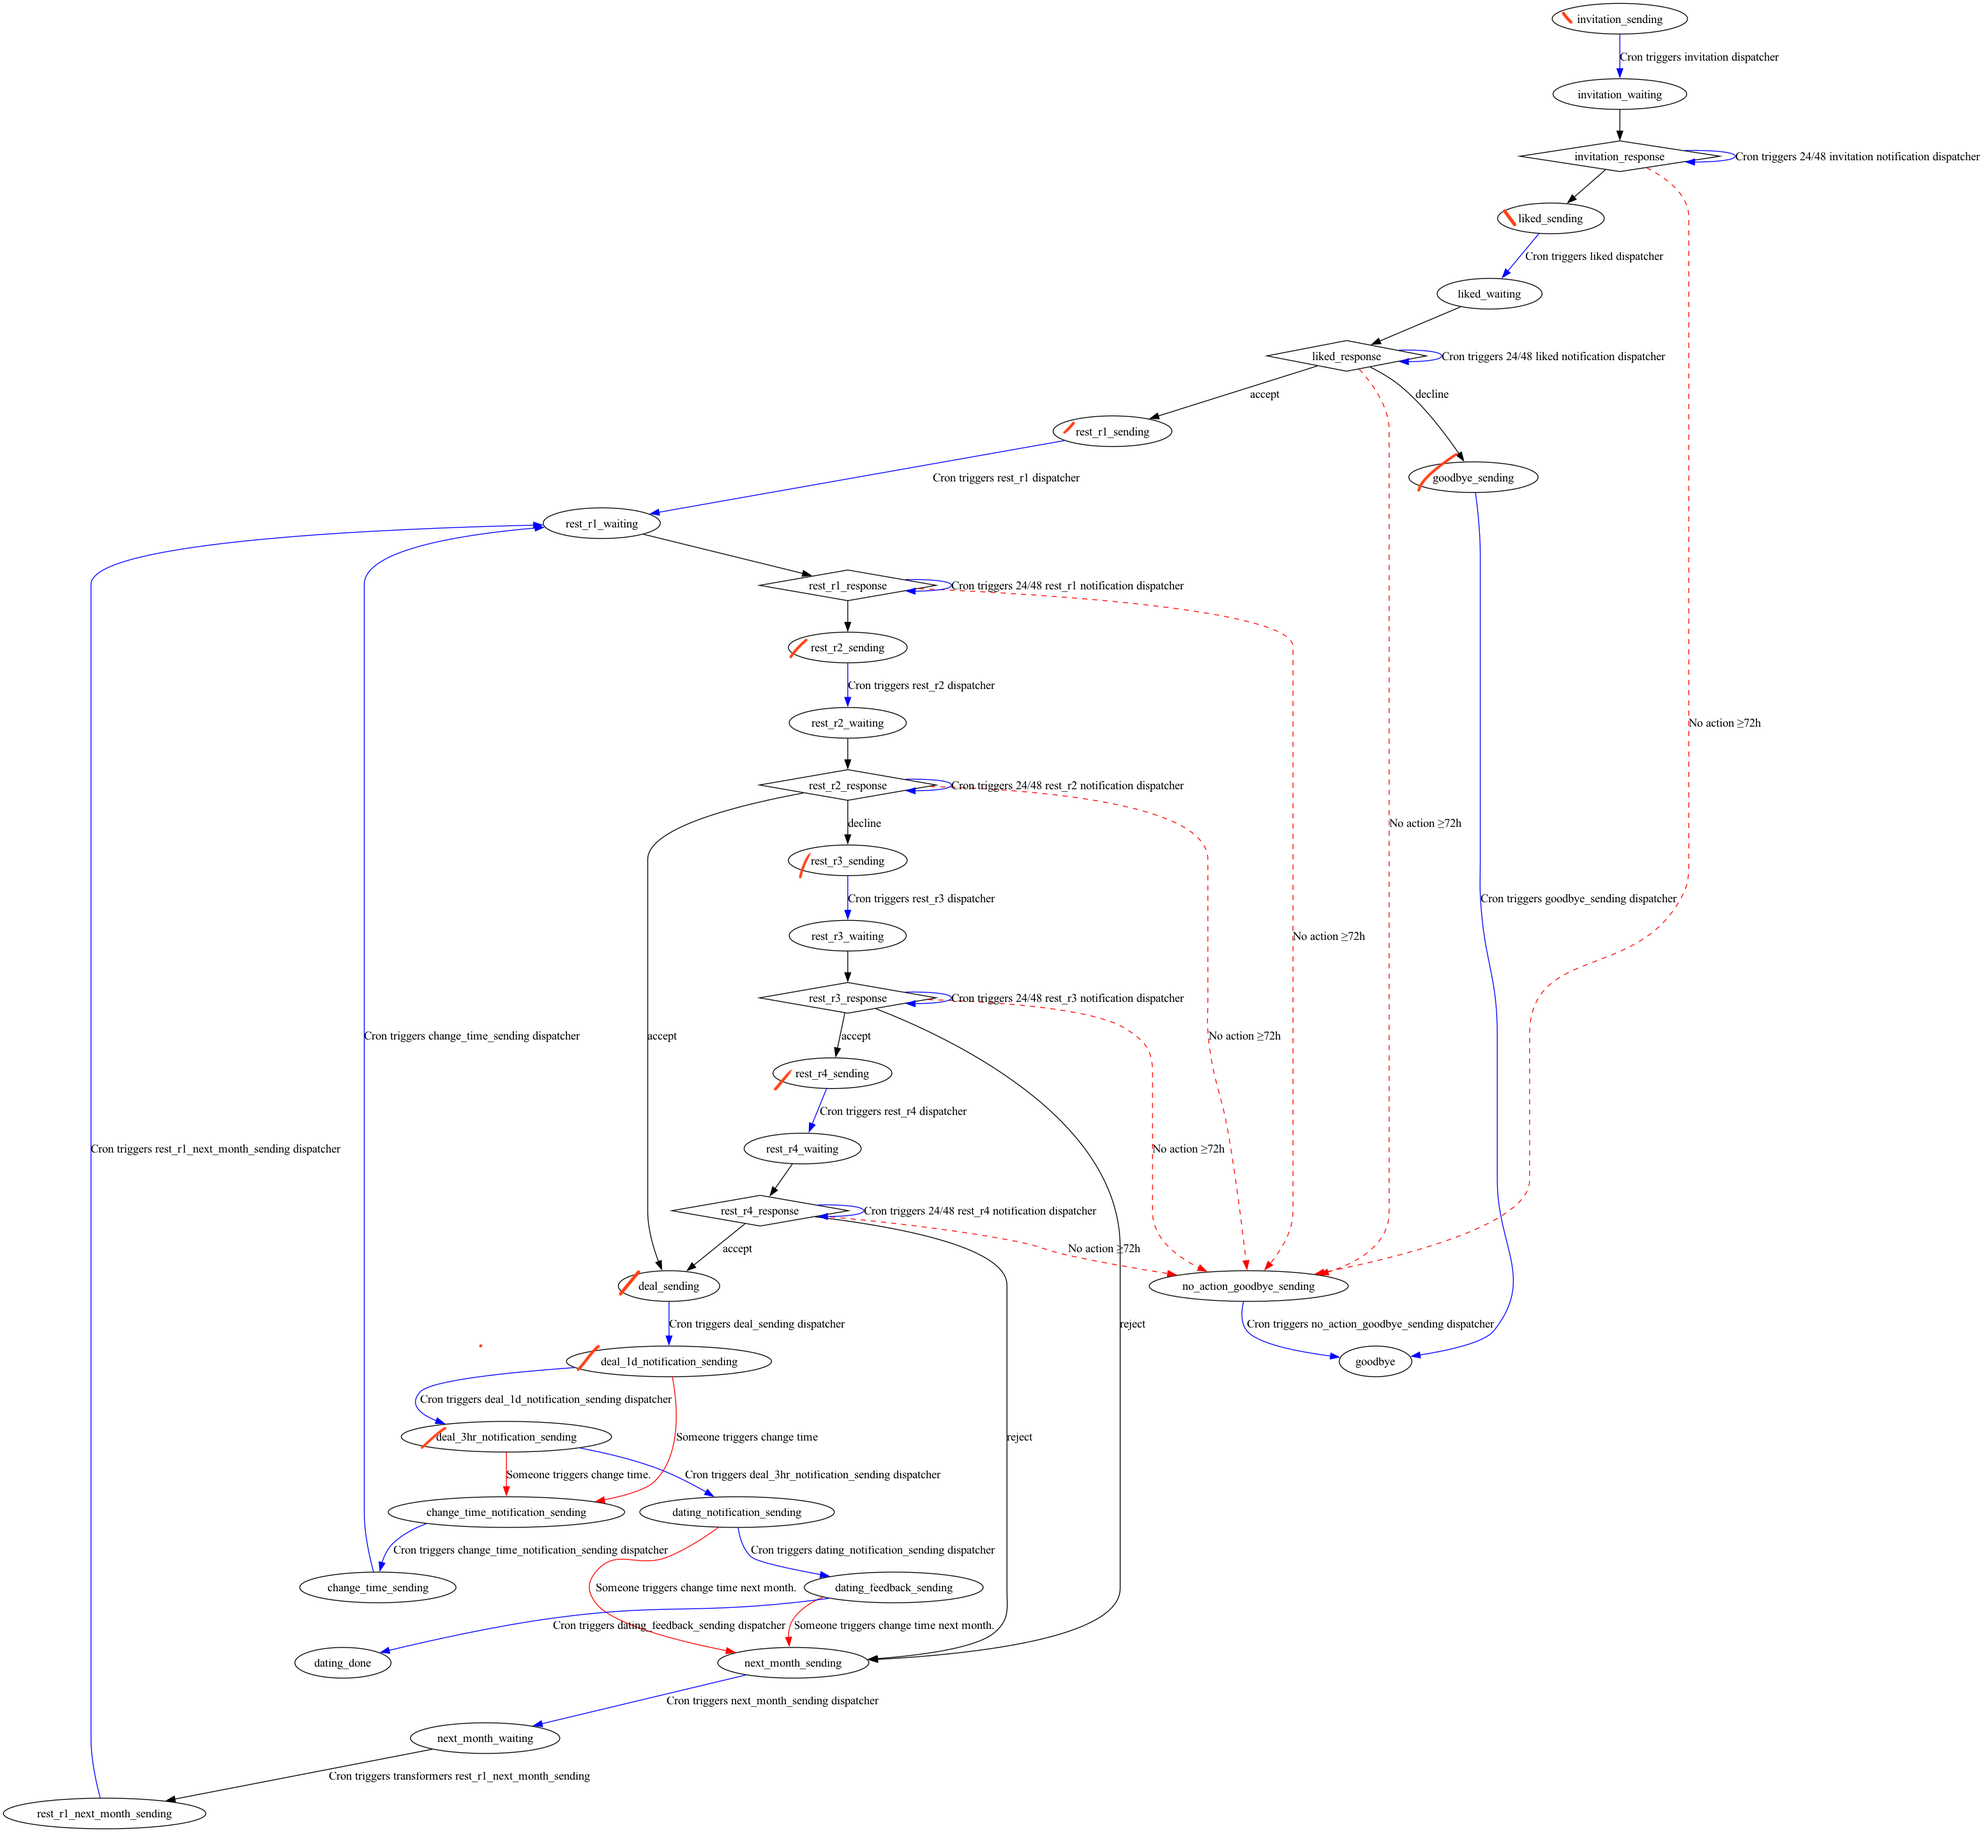
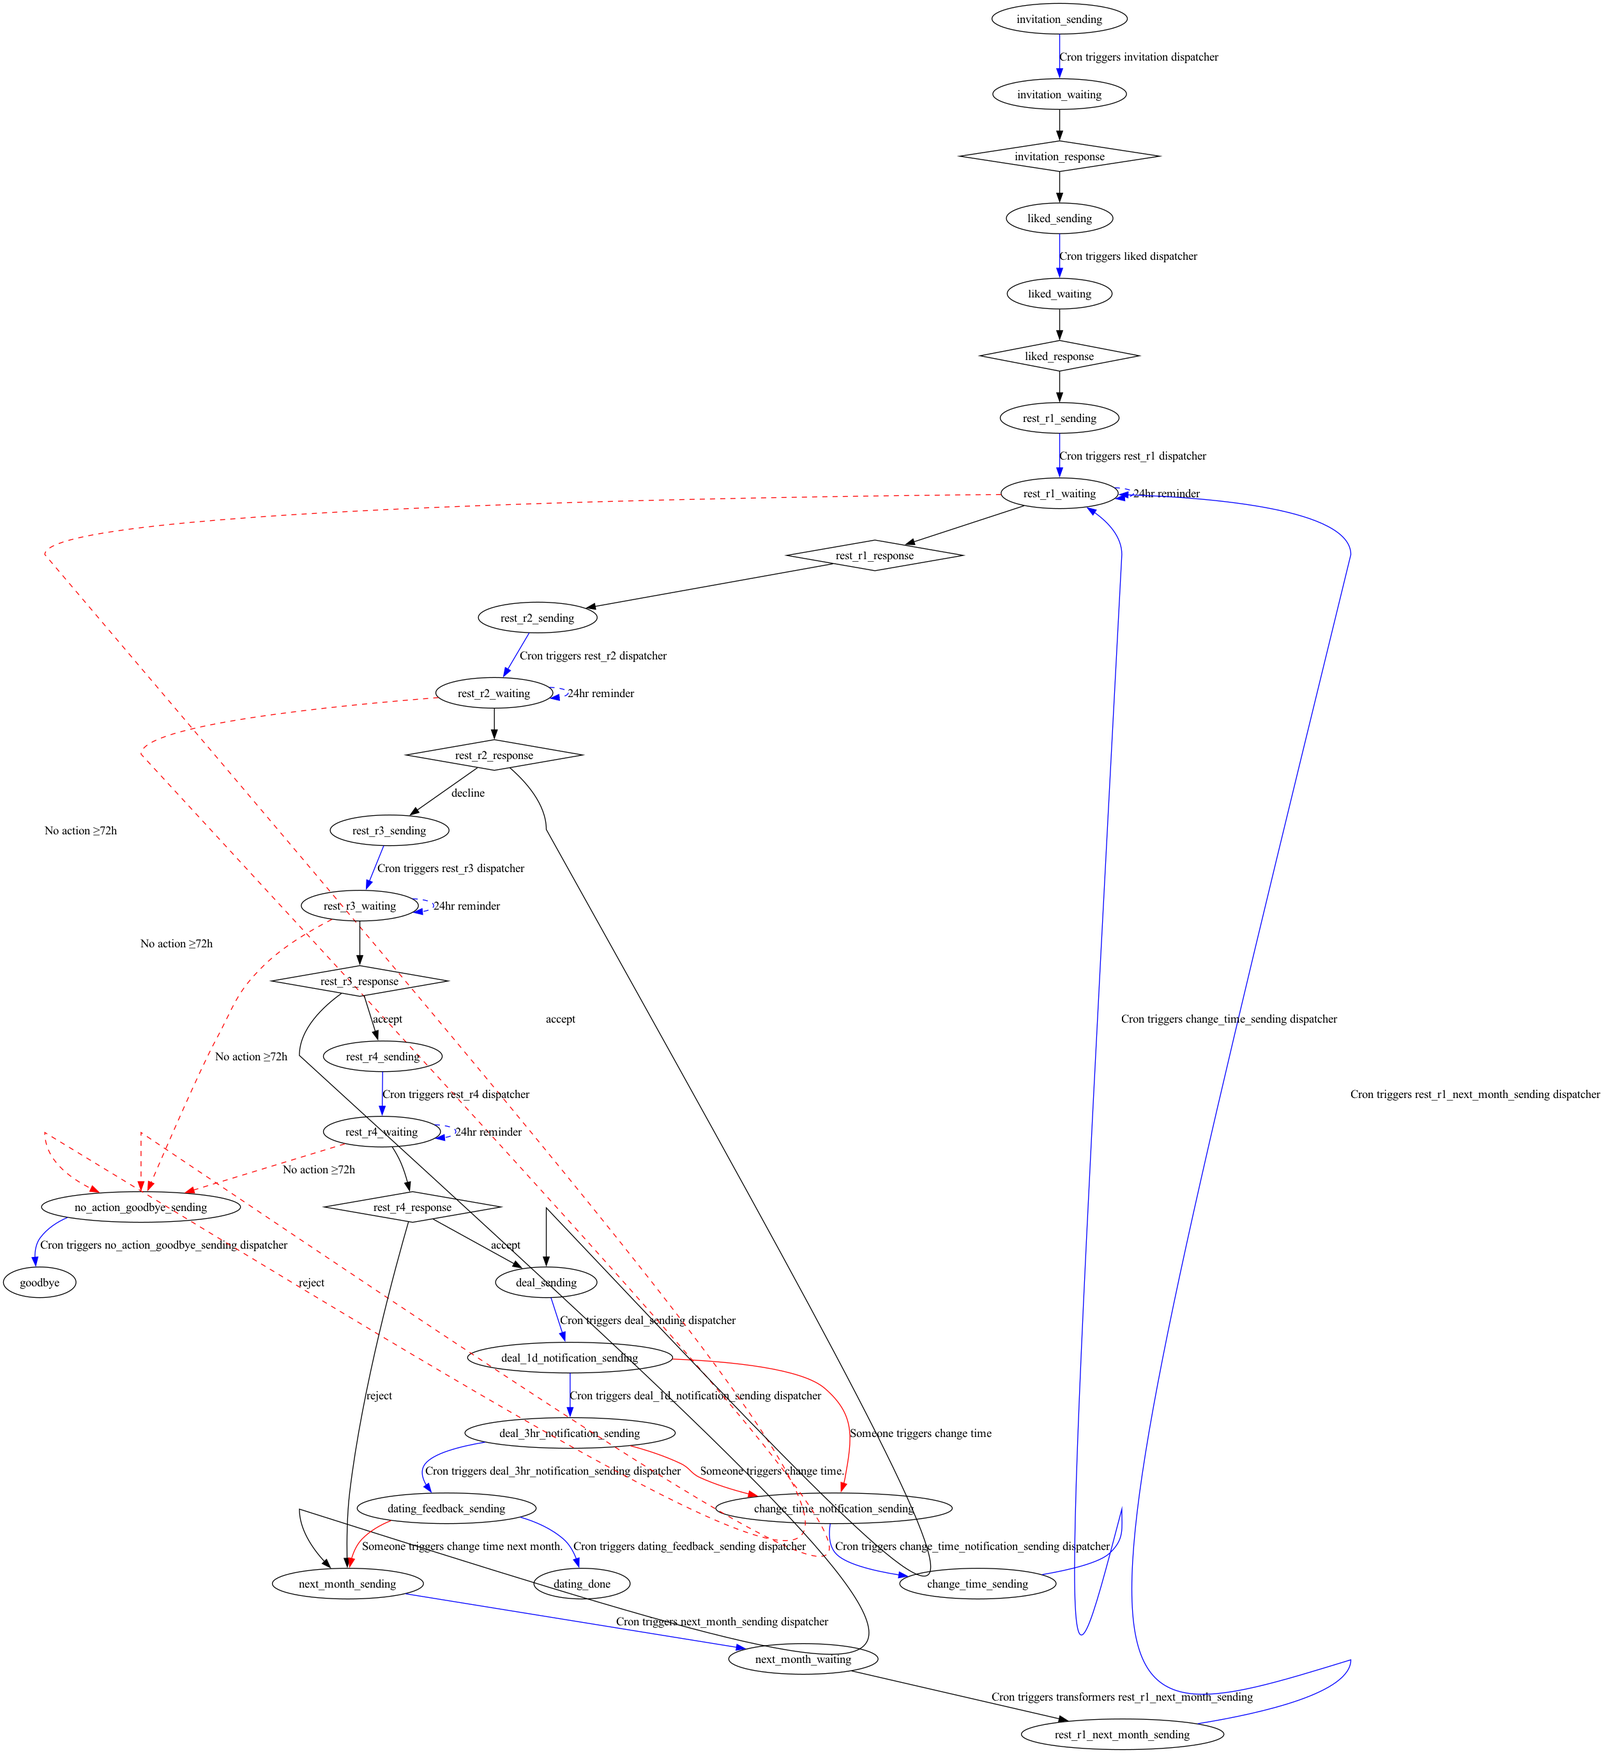
文字向左對齊

diff --git a/form_app/templates/submit_places.html b/form_app/templates/submit_places.html
@@ -18,7 +18,8 @@
                     endif %} value="{{ session['confirm_data']['place1_url'] if session.get('confirm_data') else '' }}"
                     placeholder="請貼上Google Map網址">
                 {% if lock %}
-                <button class="btn btn-outline-secondary ms-2" type="button" onclick="enableInput('place1')">重填</button>
+                <button class="btn btn-outline-secondary ms-2" type="button"
+                    onclick="enableInput('place1')">清空重填</button>
                 {% endif %}
             </div>
             <div class="invalid-feedback">
@@ -32,7 +33,8 @@
                 <input type="url" class="form-control" id="place2" name="place2" {% if lock %} disabled {% endif %}
                     value="{{ session['confirm_data']['place2_url'] if session.get('confirm_data') else '' }}">
                 {% if lock %}
-                <button class="btn btn-outline-secondary ms-2" type="button" onclick="enableInput('place2')">重填</button>
+                <button class="btn btn-outline-secondary ms-2" type="button"
+                    onclick="enableInput('place2')">清空重填</button>
                 {% endif %}
             </div>
             <div class="invalid-feedback">
@@ -46,7 +48,8 @@
                 <input type="date" class="form-control mb-2" id="time1" name="time1" required {% if lock %} disabled {%
                     endif %} value="{{ session['confirm_data']['time1'] if session.get('confirm_data') else '' }}">
                 {% if lock %}
-                <button class="btn btn-outline-secondary  ms-2" type="button" onclick="enableInput('time1')">重填</button>
+                <button class="btn btn-outline-secondary  ms-2" type="button"
+                    onclick="enableInput('time1')">清空重填</button>
                 {% endif %}
             </div>
         </div>
@@ -56,7 +59,8 @@
                 <input type="date" class="form-control mb-2" id="time2" name="time2" {% if lock %} disabled {% endif %}
                     value="{{ session['confirm_data']['time2'] if session.get('confirm_data') else '' }}">
                 {% if lock %}
-                <button class="btn btn-outline-secondary ms-2" type="button" onclick="enableInput('time2')">重填</button>
+                <button class="btn btn-outline-secondary ms-2" type="button"
+                    onclick="enableInput('time2')">清空重填</button>
                 {% endif %}
             </div>
         </div>
@@ -66,7 +70,8 @@
                 <input type="date" class="form-control mb-2" id="time3" name="time3" {% if lock %} disabled {% endif %}
                     value="{{ session['confirm_data']['time3'] if session.get('confirm_data') else '' }}">
                 {% if lock %}
-                <button class="btn btn-outline-secondary ms-2" type="button" onclick="enableInput('time3')">重填</button>
+                <button class="btn btn-outline-secondary ms-2" type="button"
+                    onclick="enableInput('time3')">清空重填</button>
                 {% endif %}
             </div>
         </div>

diff --git a/form_app/templates/base.html b/form_app/templates/base.html
@@ -16,7 +16,7 @@
         <div class="card shadow-lg rounded-4 border-2 mx-auto w-75">
             <div class="card-body px-3 py-4 text-center">
                 <h1 class="display-5 fw-bold text-body-emphasis mb-4 mt-2">{{ header }}</h1>
-                <p class="lead mb-4">{{ message|safe }}</p>
+                <p class="lead mb-4 text-start">{{ message|safe }}</p>
                 {% block content %}{% endblock %}
             </div>
         </div>

diff --git a/flow_charts/main.py b/flow_charts/main.py
@@ -36,27 +36,26 @@ for s in wait_for_response_states:
     dot.node(s+'_waiting', shape='ellipse')
     dot.node(s+'_response', shape='diamond')
 
-    dot.edge(s+'_response', s+'_response',
-             label=f'Cron triggers 24/48 {s} notification dispatcher',
-             color='blue')
-
     dot.edge(s+'_sending', s+'_waiting',
              label=f'Cron triggers {s} dispatcher',
              color='blue')
     dot.edge(s+'_waiting', s+'_response')
 
-    dot.edge(s+'_response', 'no_action_goodbye_sending',
-             label='No action ≥72h', style='dashed', color='red')
+    if s.startswith('rest'):
+
+        dot.edge(s+'_waiting', 'no_action_goodbye_sending',
+                 label='No action ≥72h', style='dashed', color='red')
+
+        dot.edge(s+'_waiting', s+'_waiting',
+                 label='24hr reminder', style='dashed', color='blue')
 
 
 # Main flow
 dot.edge('invitation_response', 'liked_sending')
-dot.edge('liked_response', 'goodbye_sending', label='decline')
-dot.edge('liked_response', 'rest_r1_sending', label='accept')
 
-dot.edge('goodbye_sending', 'goodbye',
-         label='Cron triggers goodbye_sending dispatcher',
-         color='blue')
+dot.edge('liked_response', 'rest_r1_sending')
+
+
 dot.edge('rest_r1_response', 'rest_r2_sending')
 
 dot.edge('rest_r2_response', 'rest_r3_sending', label='decline')
@@ -87,8 +86,7 @@ dot.edge('no_action_goodbye_sending', 'goodbye',
 
 sending_edges = [('deal_sending', 'deal_1d_notification_sending'),
                  ('deal_1d_notification_sending', 'deal_3hr_notification_sending'),
-                 ('deal_3hr_notification_sending', 'dating_notification_sending'),
-                 ('dating_notification_sending', 'dating_feedback_sending'),
+                 ('deal_3hr_notification_sending', 'dating_feedback_sending'),
                  ('dating_feedback_sending', 'dating_done'),
                  ('change_time_notification_sending', 'change_time_sending')
                  ]
@@ -110,9 +108,6 @@ dot.edge('deal_3hr_notification_sending', 'change_time_notification_sending',
          label='Someone triggers change time.',
          color='red')
 
-dot.edge('dating_notification_sending', 'next_month_sending',
-         label='Someone triggers change time next month.',
-         color='red')
 
 dot.edge('dating_feedback_sending', 'next_month_sending',
          label='Someone triggers change time next month.',
@@ -120,5 +115,5 @@ dot.edge('dating_feedback_sending', 'next_month_sending',
 
 
 # dot.attr(ranksep='1.5', nodesep='1.0')
-dot.attr('edge', arrowsize='3', penwidth='3')
+# dot.attr('edge', arrowsize='3', penwidth='3')
 dot.render('flowchart', format='png', cleanup=True)

diff --git a/senders/dispatchers/goodbye.py b/senders/dispatchers/goodbye.py
@@ -12,14 +12,14 @@ class MyCollector(Collector):
 
 
 class MySender(Sender):
-    OLD_STATE = ('goodbye_sending', 'no_action_goodbye_sending')
+    OLD_STATE = 'no_action_goodbye_sending'
     NEW_STATE = 'goodbye'
 
     def modify_bubble(self):
         bubble = load_bubble_raw('simple_message_bubble.json')
-        message = "此約會邀請依雙方意願時間暫不安排\n期待未來比次更多的緣分"
+        message = "因對方等待時間過長，將取消此次排約\n期待未來比次更多的緣分"
 
-        bubble.set_title('後會有期！')
+        bubble.set_title('後會有期')
         bubble.set_city(self.matching_row.city)
         bubble.set_bubble_message(message)
 
@@ -31,7 +31,7 @@ class MySender(Sender):
         bubble_for_sub.set_sent_to_proper_name(get_proper_name(
             self.conn, self.matching_row.object_id))
 
-        alt_message = '後會有期🥲期待新的約會邀請'
+        alt_message = '後會有期'
 
         return [SendingInfo(
             self.matching_row.object_id, bubble_for_obj.as_dict(), alt_message),
